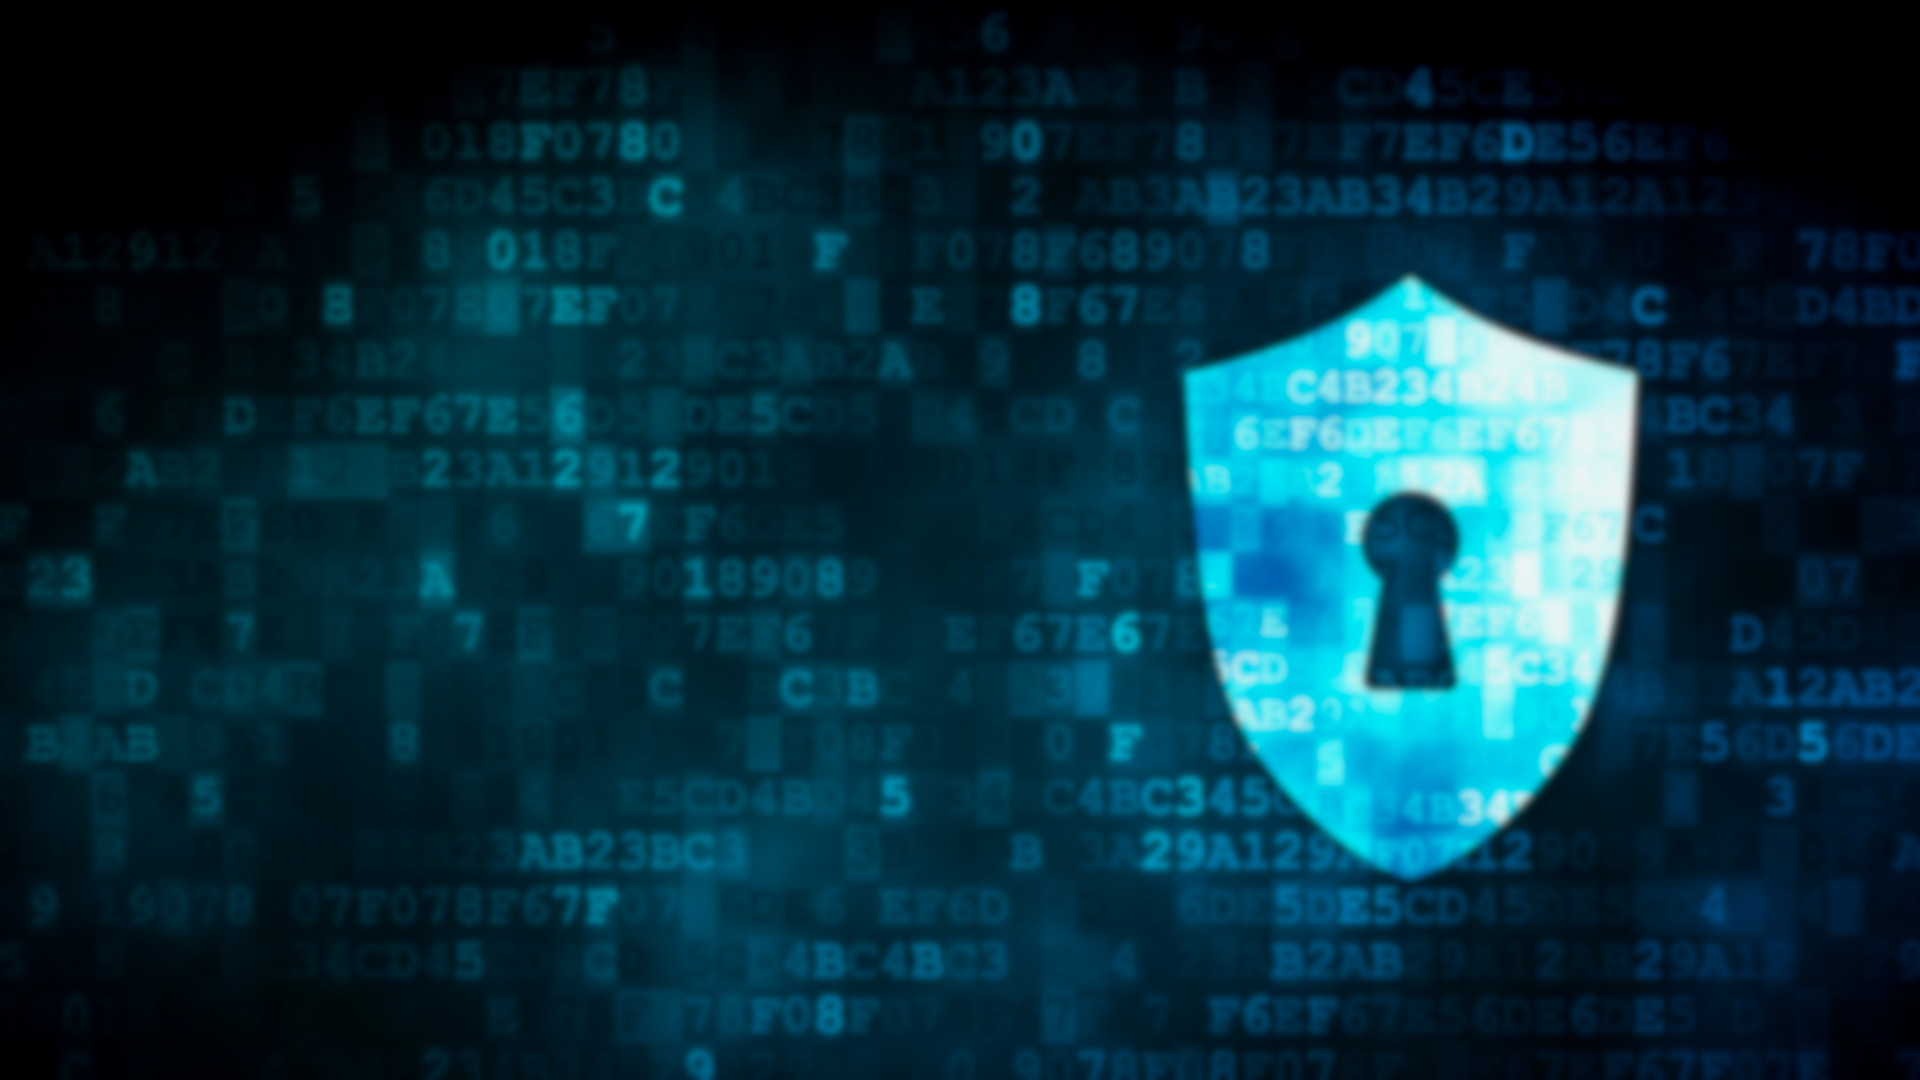
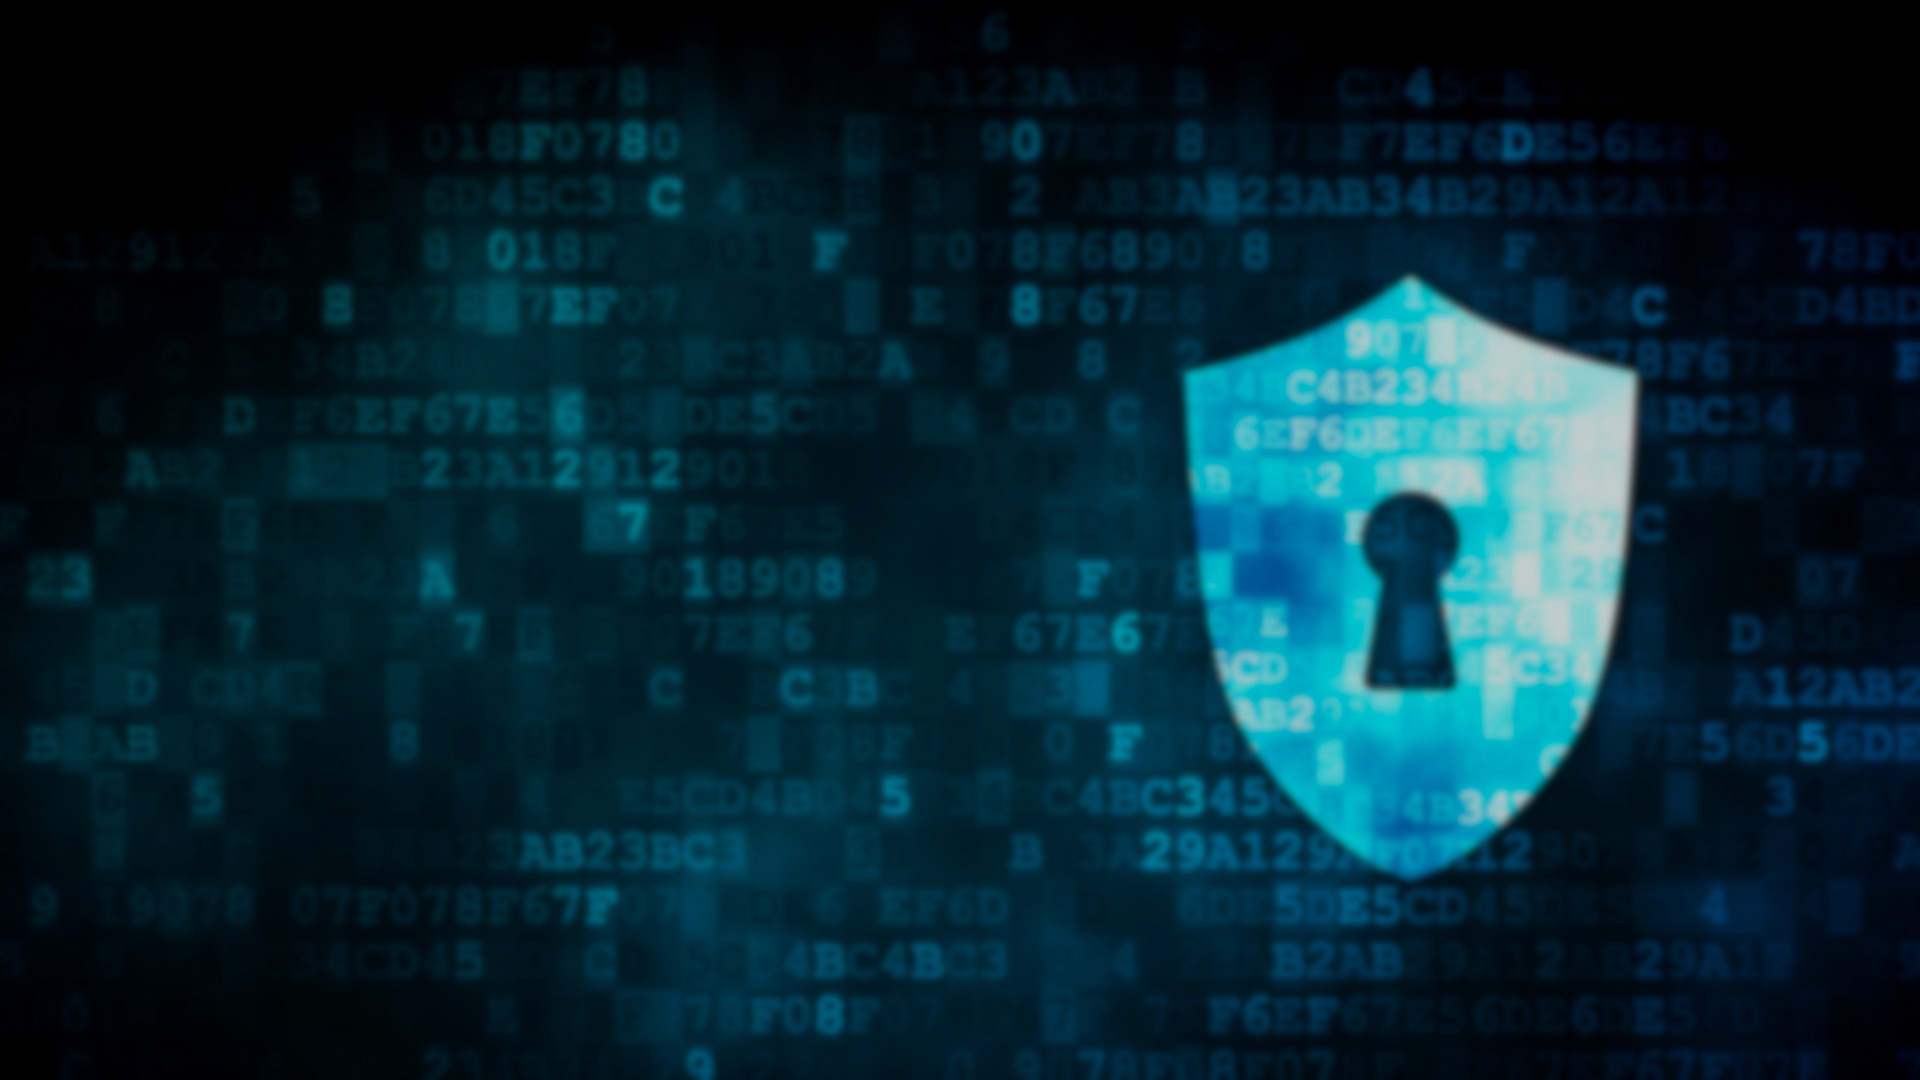
Frontend update

diff --git a/www/public/css/index.css b/www/public/css/index.css
@@ -214,6 +214,42 @@ body {
 	transform:scale(1.1)
 }
 
+.hero__version {
+	align-items:center;
+	backdrop-filter:blur(16px) saturate(150%);
+	background:linear-gradient(135deg,#18344e,#02182f);
+	border:1px solid rgba(88, 166, 255, 0.2);
+	border-radius:8px;
+	bottom:1rem;
+	box-shadow:0 0 16px rgba(24, 52, 78, 0.4), 0 4px 24px rgba(0, 0, 0, 0.3);
+	display:flex;
+	left:1rem;
+	padding:.4rem .95rem;
+	pointer-events:auto;
+	position:absolute;
+	transition:all .3s cubic-bezier(0.4, 0, 0.2, 1);
+	z-index:1
+}
+
+.hero__version:hover {
+	background:linear-gradient(135deg,#1e4160,#03213d);
+	border-color:rgba(88, 166, 255, 0.4);
+	box-shadow:0 0 20px rgba(88, 166, 255, 0.3), 0 6px 32px rgba(0, 0, 0, 0.4);
+	transform:translateY(-2px)
+}
+
+.hero__version-text {
+	background:linear-gradient(135deg,#79c0ff,#a5d6ff);
+	-webkit-background-clip:text;
+	-webkit-text-fill-color:transparent;
+	background-clip:text;
+	font-family:'Cascadia Mono',monospace;
+	font-size:.95rem;
+	font-weight:700;
+	letter-spacing:.3px;
+	text-shadow:0 0 12px rgba(88, 166, 255, 0.5)
+}
+
 .main {
 	margin:0 auto;
 	max-width:1400px;
@@ -623,6 +659,16 @@ body {
 		width:40px
 	}
 
+	.hero__version {
+		bottom:.7rem;
+		left:.7rem;
+		padding:.4rem 1rem
+	}
+
+	.hero__version-text {
+		font-size:1rem
+	}
+
 	.hero__sponsor {
 		bottom:.7rem;
 		padding:.3rem .8rem;
@@ -771,6 +817,17 @@ body {
 	.hero__social-icon {
 		height:38px;
 		width:38px
+	}
+
+	.hero__version {
+		bottom:3.5rem;
+		left:50%;
+		padding:.4rem 1rem;
+		transform:translateX(-50%)
+	}
+
+	.hero__version-text {
+		font-size:.95rem
 	}
 
 	.hero__sponsor {
@@ -953,6 +1010,15 @@ body {
 
 	.hero__social-link {
 		padding:.5rem
+	}
+
+	.hero__version {
+		bottom:3.2rem;
+		padding:.35rem .9rem
+	}
+
+	.hero__version-text {
+		font-size:.875rem
 	}
 
 	.hero__sponsor {

diff --git a/www/public/css/false-positives.css b/www/public/css/false-positives.css
@@ -49,32 +49,17 @@ main.main {
 	padding:1.75rem;
 	position:relative;
 	text-decoration:none;
-	transition:transform .25s cubic-bezier(0.4,0,0.2,1),background .25s cubic-bezier(0.4,0,0.2,1),border-color .25s cubic-bezier(0.4,0,0.2,1),box-shadow .25s cubic-bezier(0.4,0,0.2,1);
+	transition:all .5s cubic-bezier(0.25,0.46,0.45,0.94);
 	will-change:transform
 }
 
-.report-card::before {
-	background:linear-gradient(90deg,#58a6ff,#79c0ff);
-	bottom:0;
-	content:'';
-	height:3px;
-	left:0;
-	position:absolute;
-	transition:width .3s cubic-bezier(0.4,0,0.2,1);
-	width:0
-}
-
 .report-card:hover {
-	background:#58a6ff1a;
-	border-color:#58a6ff4d;
-	box-shadow:0 0 0 1px #58A6FF4C, 0 8px 32px #0000004C;
+	background:linear-gradient(135deg,#58a6ff1a,#58a6ff12);
+	border-color:#58a6ff60;
+	box-shadow:0 0 0 1px #58A6FF40, 0 8px 28px #58A6FF26, 0 0 48px #58A6FF12;
 	text-decoration:none;
 	text-shadow:none;
-	transform:translateY(-2px)
-}
-
-.report-card:hover::before {
-	width:100%
+	transform:translateY(-4px) scale(1.01)
 }
 
 .report-card:active {